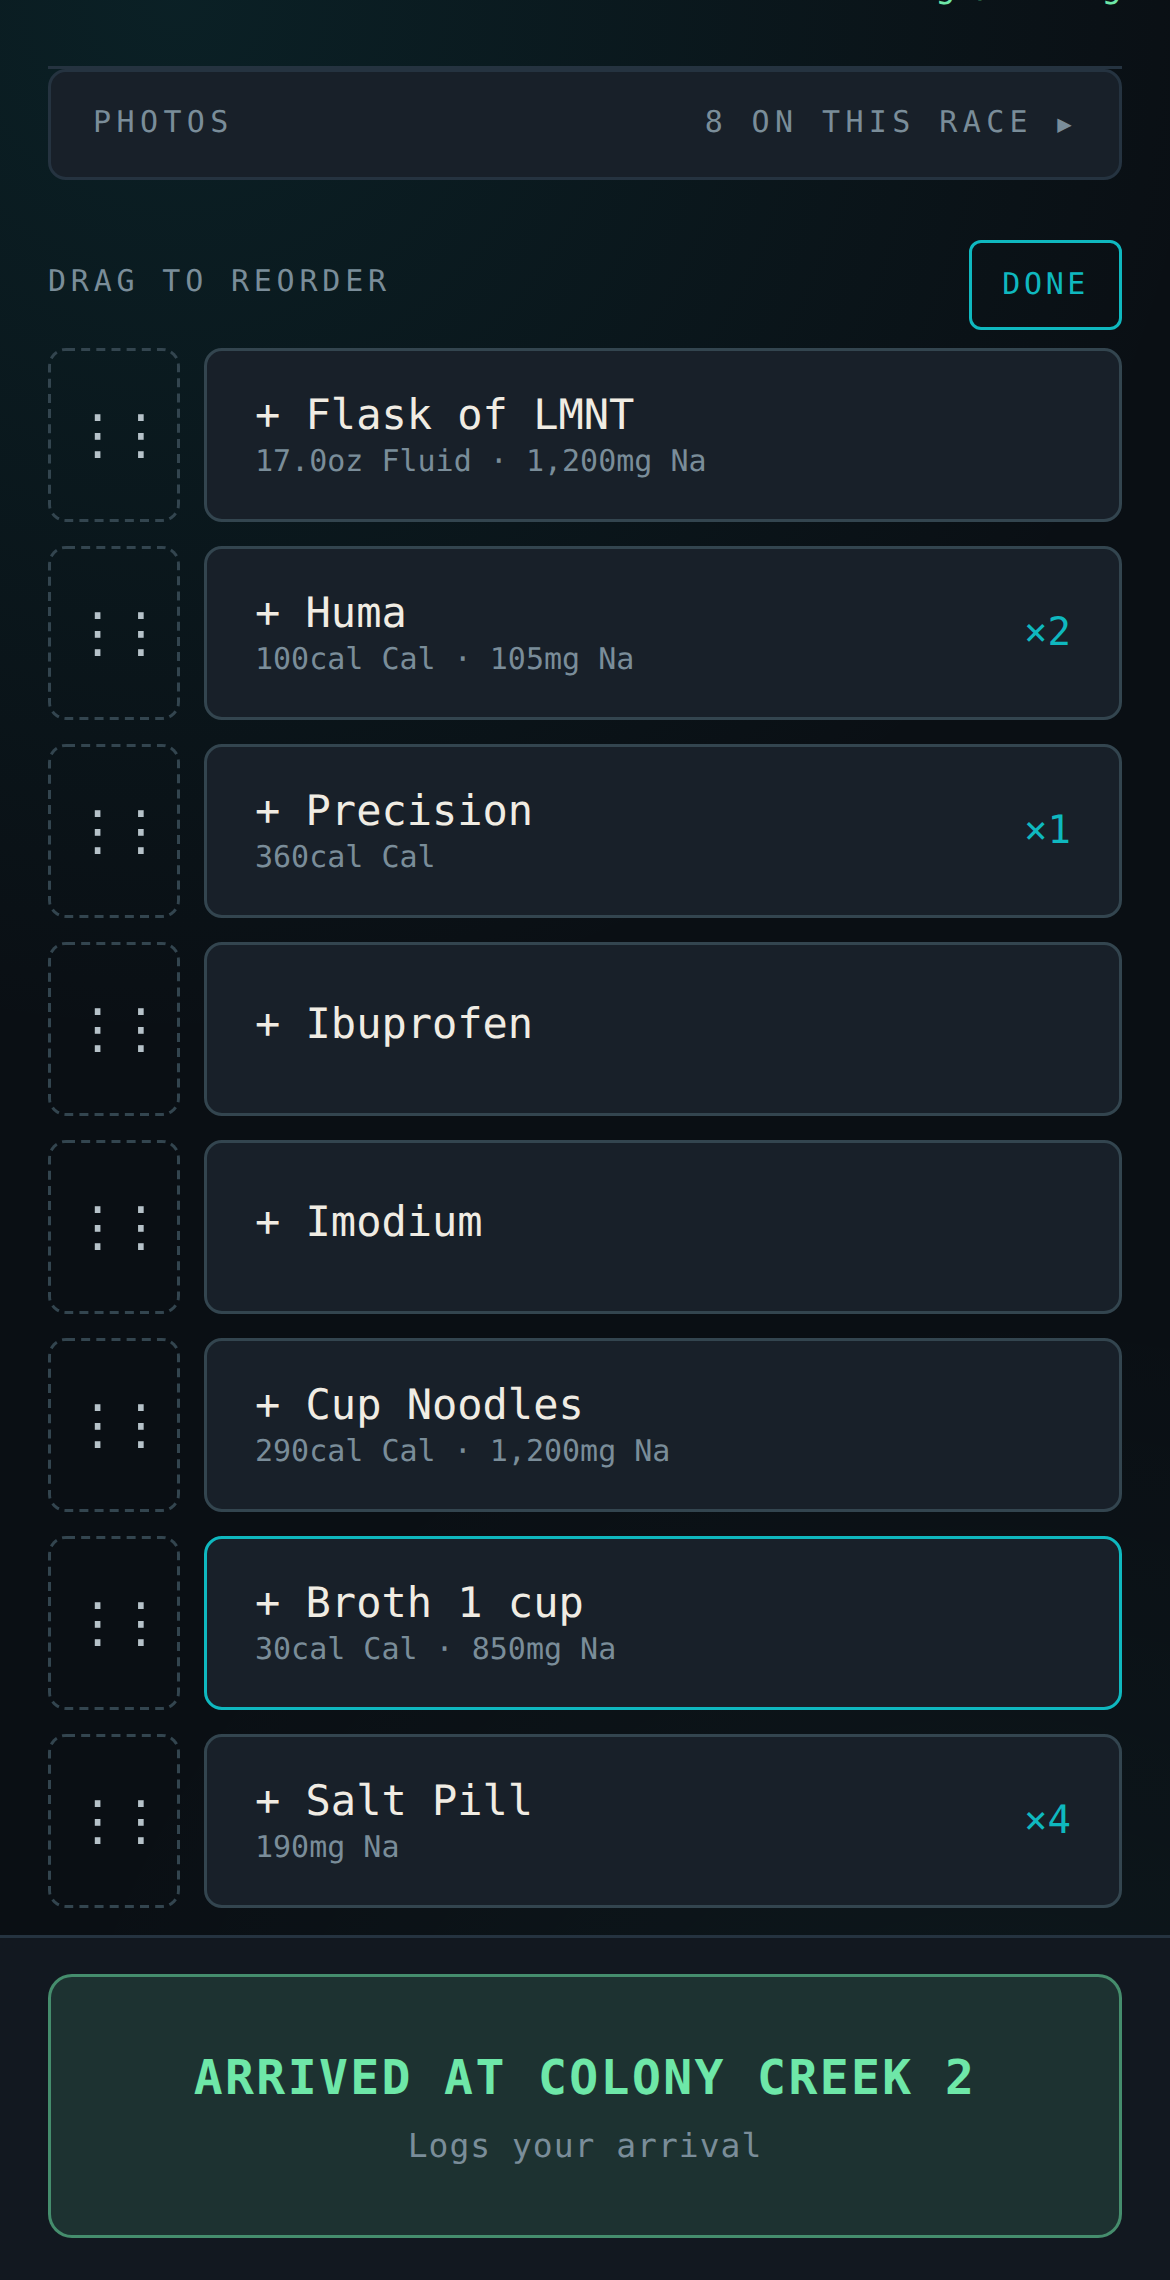
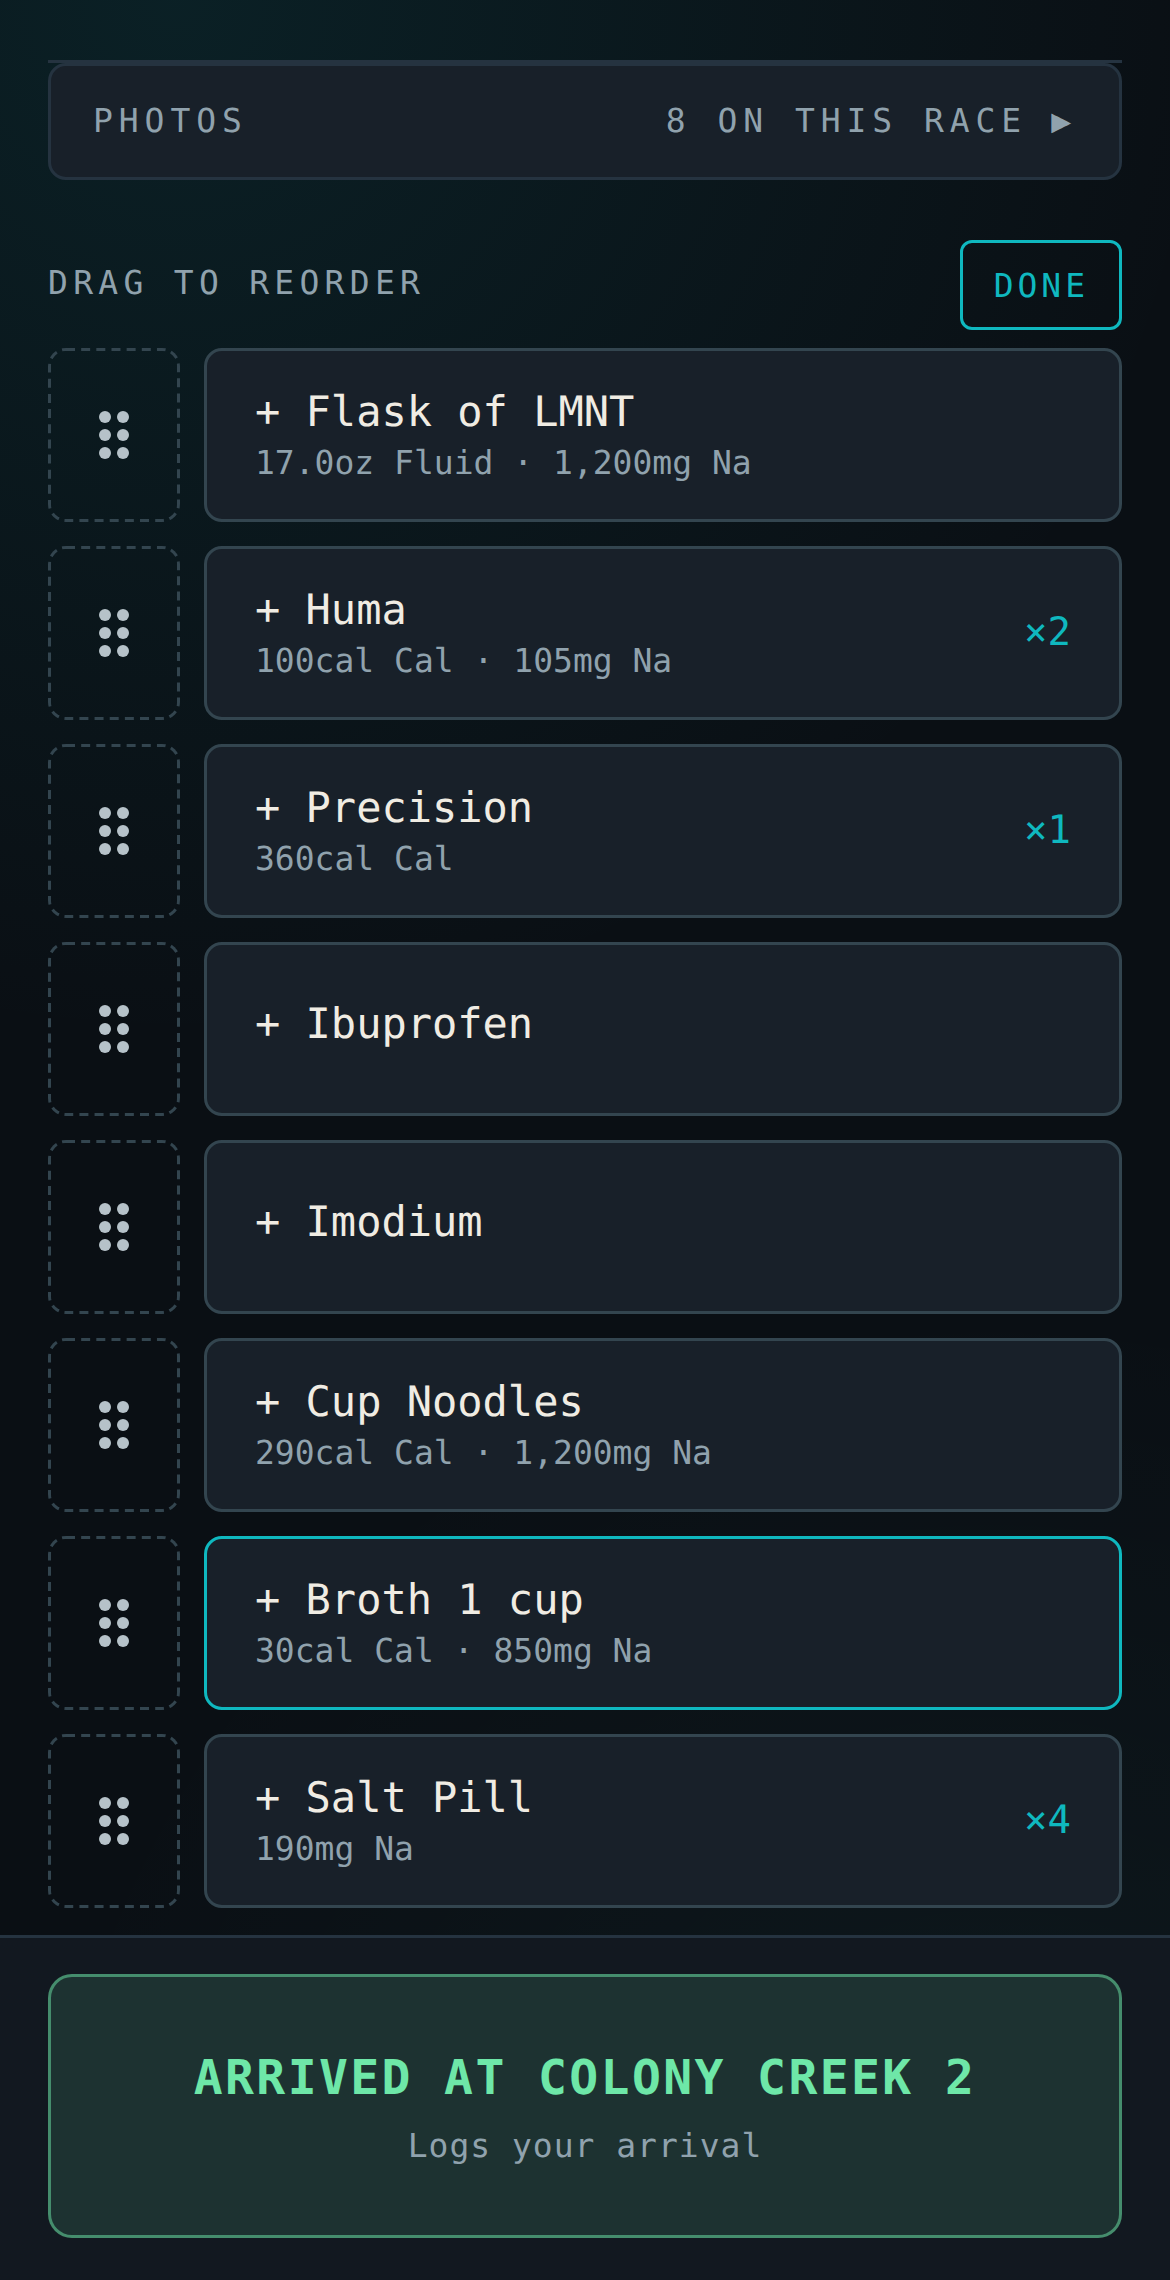
Racer screen: the reorder grip is one six-dot handle, and the one-tap items post re-rendered with it
The grip was two vertical ellipses typed side by side, which sat as far
apart as the phone's font put them and read as two marks. It is now drawn:
six dots in two columns 6px apart, the usual drag handle. One column alone
would read as a menu.

Claude-Session: https://claude.ai/code/session_01EWRjYYN5ZDLhgR1pme87tD

diff --git a/racer.html b/racer.html
@@ -171,8 +171,9 @@
   .rgrip {
     flex: 0 0 44px; min-height: 58px; background: none; cursor: grab; touch-action: none;
     border: 1px dashed var(--border-bright); border-radius: 6px;
-    color: var(--text-dim); font-size: 18px; letter-spacing: -0.2em;
+    color: var(--text-dim); display: flex; align-items: center; justify-content: center;
   }
+  .rgrip svg { fill: currentColor; pointer-events: none; }
   .rchips.reordering .rchip:disabled { opacity: 1; cursor: default; }
   .rchip-row.dragging { opacity: 0.55; }
   .rchip-row.dragging .rgrip { cursor: grabbing; }
@@ -640,6 +641,11 @@
     // this has made once already: the two agree only until something moves.
     const items = Race.fuel.presetsInOrder(cfg);
     const metrics = Race.fuel.metrics(cfg);
+    // The six-dot drag handle, drawn rather than typed: two vertical ellipses
+    // set side by side sat as far apart as the phone's font put them, and read
+    // as two marks rather than one grip. One column alone is a menu.
+    const GRIP = '<svg viewBox="0 0 24 24" width="24" height="24" aria-hidden="true" focusable="false">' +
+      [6, 12, 18].map(y => `<circle cx="9" cy="${y}" r="2"/><circle cx="15" cy="${y}" r="2"/>`).join('') + '</svg>';
     if (items.length) {
       chips.push(`<div class="rblock">
         <div class="rlbl-row">
@@ -652,7 +658,7 @@
             const n = +leg[`preset_${i}`] || 0;
             return `<div class="rchip-row" data-row="${i}">
             ${reordering ? `<button type="button" class="rgrip" data-grip="${i}"
-              aria-label="Move ${esc(p.name)}: drag, or use the arrow keys">\u22ee\u22ee</button>` : ''}
+              aria-label="Move ${esc(p.name)}: drag, or use the arrow keys">${GRIP}</button>` : ''}
             <button class="rchip" type="button" data-preset="${i}"${reordering ? ' disabled' : ''}>
               <span>+ ${esc(p.name)}<span class="sub">${esc(metrics.filter(m => +p.values[m.key])
                   .map(m => Race.fuel.fmt(m, p.values[m.key]) + ' ' + (m.short || m.label)).join(' · '))}</span></span>
